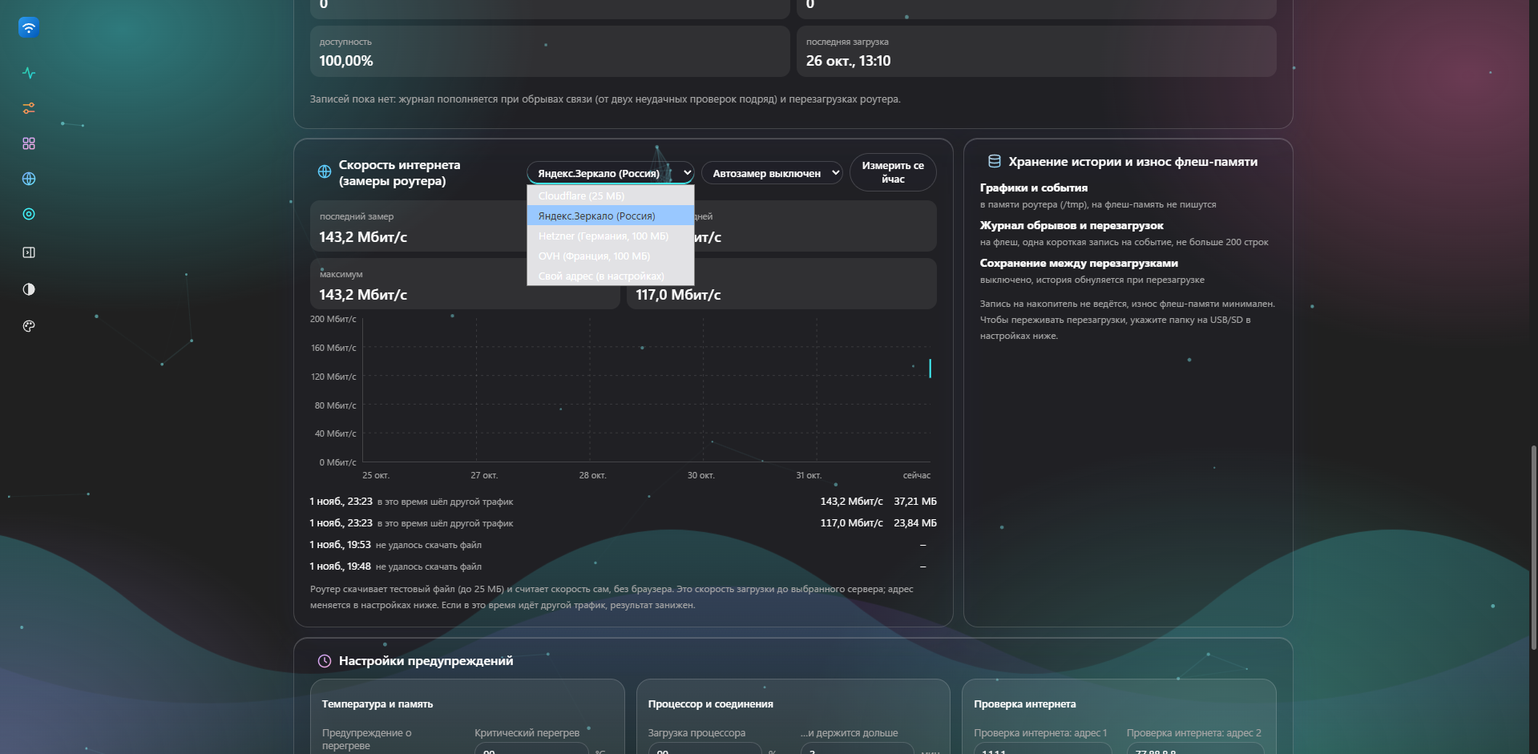
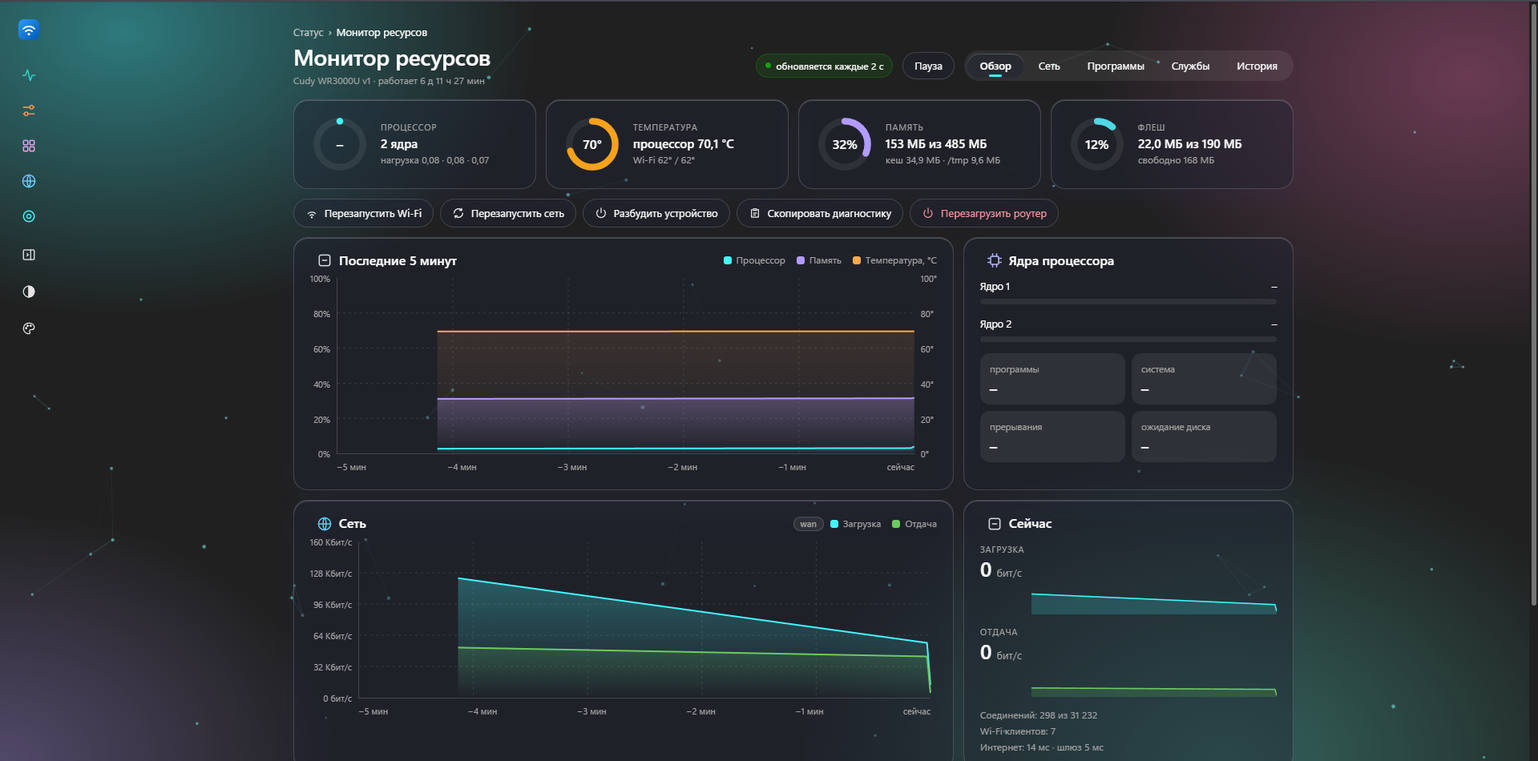
Новый README и скриншоты

diff --git a/README.md b/README.md
@@ -1,159 +1,99 @@
 # Nightfall для OpenWrt
 
-Тема в стиле Windows 11 / Liquid Glass и страница «Монитор ресурсов» для LuCI на **OpenWrt 25.12**.
+Тема для LuCI в стиле Windows 11 и Liquid Glass плюс страница **«Монитор ресурсов»** с историей, графиками и учётом трафика по устройствам. Для **OpenWrt 25.12**, без дополнительных пакетов.
 
-## Быстрая установка
-Обновление или установка одной командой на роутере (нужен доступ в интернет, SSH):
+<!--
+## Скриншоты
+Положите файлы в папку docs/ и уберите эти маркеры комментария.
+
+| Монитор ресурсов | Обзор | Телефон |
+|---|---|---|
+| <img src="docs/monitor.png" width="420"> | <img src="docs/overview.png" width="420"> | <img src="docs/mobile.png" width="200"> |
+-->
+
+## Возможности
+
+**Тема**
+- Два стиля: Windows 11 (Mica, карточки) и Liquid Glass (прозрачные карточки с размытием).
+- Светлая и тёмная темы, автопереключение по системе или по расписанию.
+- 12 акцентных цветов и свой цвет, фоны (Mica, точки, сетка, звёзды, аврора, волны), анимированные «созвездия».
+- Свёртываемое меню, поиск по страницам (`Ctrl+K` или `/`), быстрая кнопка смены темы.
+- Мобильный вид: нижняя панель разделов, настройки в виде карточек, панель «Сохранить и применить» внизу экрана.
+- Экран входа в стиле экрана блокировки со сводкой о роутере (только для клиентов из локальной сети).
+- Установка на домашний экран телефона как приложение. Настройки вида хранятся на роутере и переживают смену браузера.
+
+**Обзор**
+- Полоса «Сейчас»: интернет, трафик WAN, процессор, температура, память. Плитки раскрываются в графики за час, сутки, неделю.
+- Состояние роутера, Wi-Fi клиенты и уровень сигнала, лента событий, топ устройств по трафику, быстрые действия.
+- Карточки можно перетаскивать, закреплять и скрывать.
+
+**Монитор ресурсов** (Состояние → Монитор ресурсов)
+- Процессор, температура, память, флеш-память, ядра, память по программам.
+- Вкладка «Сеть»: скорость интерфейсов, соединения, трафик по устройствам за сегодня и вчера.
+- Вкладка «История»: графики за 1 час, 24 часа, 7 дней, качество связи, журнал обрывов и перезагрузок.
+- Замер скорости интернета самим роутером: Cloudflare, Яндекс.Зеркало, Hetzner, OVH или свой адрес, ручной и автоматический запуск.
+- Предупреждения даже при закрытой странице: перегрев, нехватка памяти, заполненная флеш-память, высокая нагрузка, пропажа интернета.
+
+История хранится в оперативной памяти (`/tmp`), на флеш-память ничего не пишется. Чтобы история переживала перезагрузку, укажите папку на USB или SD-карте.
+
+## Установка
+
+Нужен SSH-доступ к роутеру.
+
+**Одной командой** (роутеру нужен доступ в интернет):
 ```sh
 wget -qO- https://raw.githubusercontent.com/Nikolai752/nightfall-openwrt/main/install-update.sh | sh
 ```
-Первая установка с включением темы: скачайте `nightfall-root.tar.gz` из [Releases](https://github.com/Nikolai752/nightfall-openwrt/releases/latest) и `install.sh`, затем:
+
+**Вручную:** скачайте `nightfall-root.tar.gz` из [Releases](https://github.com/Nikolai752/nightfall-openwrt/releases/latest) и `install.sh`, положите рядом и выполните:
 ```sh
 scp -O nightfall-root.tar.gz install.sh root@192.168.1.1:/tmp/
 ssh root@192.168.1.1 "cd /tmp && sh install.sh --activate"
 ```
+`--activate` сразу включает тему. Без него выберите её в System → System → Language and Style.
 
-## Структура репозитория
-- `luci-theme-nightfall/` — тема (CSS, JS, шаблоны ucode).
-- `luci-app-nightfall-monitor/` — монитор, сборщик истории, меню и права rpcd.
-- `install.sh`, `install-update.sh`, `uninstall.sh` — установка, обновление, откат.
-- `build-release.sh` — собирает `dist/nightfall-root.tar.gz` для релиза.
+После установки выйдите из LuCI и войдите снова, затем нажмите `Ctrl+F5`. На iPhone закройте приложение с экрана «Домой» и откройте заново.
 
-## Выпуск новой версии
+## Обновление
+
+Та же команда, что и для установки одной командой, либо `install-update.sh` вручную. Настройки сохраняются.
+
+## Удаление
+
 ```sh
-git tag v1.0.0 && git push origin v1.0.0
-```
-GitHub Actions соберёт архив и приложит его к релизу. Вручную: `sh build-release.sh`, затем загрузить `dist/nightfall-root.tar.gz` в новый релиз.
-
-## Что внутри
-- **Тема**: боковая панель как в «Параметрах» Windows 11, Mica, карточки, переключатели, плавающая панель сохранения, плитки на «Обзоре»,
-  полосы прогресса и графики в одной палитре, светлая/тёмная по системе (варианты Nightfall Dark / Light).
-- **Персонализация** (кнопка слева внизу): режим Авто/Светлая/Тёмная, 12 акцентных цветов и свой цвет, фон (Mica, плоский, точки, сетка, звёзды) с масштабом, анимации вкл/выкл.
-  Хранится в браузере (localStorage), не на роутере.
-- **Быстрая кнопка темы** (Авто → Светлая → Тёмная) в шапке, **поиск по меню** (Ctrl+K или `/`), **экран входа** в стиле экрана блокировки: часы, дата и окно входа по центру (см. ниже).
-- **Status → Монитор ресурсов**: процессор, температура, память, флеш, график за 5 минут, ядра, память по программам;
-  вкладка «Сеть» (скорость по интерфейсам, соединения, кто держит соединения, Wi-Fi клиенты), вкладка «Программы».
-  Быстрые действия (перезапуск Wi-Fi/сети, Wake-on-LAN, перезагрузка) и предупреждение о перегреве (≥80 °C дольше минуты, ≥90 °C — красное).
-- **Фоновый сборщик истории** (`nightfall-collector`, запускается как служба): процессор, память, температура, скорость WAN, задержка и потери ping.
-  Час — с шагом 15 с, неделя — по 5 минут. Данные лежат в `/tmp/nightfall` (в памяти), на флеш ничего не пишется.
-- **Монитор → вкладка «История»**: графики за 1 час / 24 часа / 7 дней, качество связи (средняя и максимальная задержка, потери, обрывы), журнал событий.
-- **Монитор → «Сеть» → «Трафик по устройствам»**: кто сколько качает сейчас и за день (сегодня / вчера), с именами из DHCP.
-  Считается из conntrack accounting (`nf_conntrack_acct=1`), без дополнительных правил nftables.
-- **Предупреждения** (даже если страница закрыта): перегрев, нехватка памяти, заполненная флеш-память и таблица соединений, длительная нагрузка CPU,
-  пропал интернет / шлюз. Видны на «Обзоре», пишутся в журнал (`logread | grep nightfall`).
-
-## Экран входа
-- Сводка о роутере над полями: интернет (задержка по данным сборщика), время работы, версия прошивки. Показывается **только клиентам из локальной сети** (10.x, 172.16–31.x, 192.168.x, fc/fd/fe80, localhost); при заходе из интернета видны только имя и модель, как раньше.
-- «Запомнить имя» (в браузере, пароль не сохраняется), подсказки про Caps Lock и русскую раскладку, понятная ошибка при неверном пароле, «Забыли пароль?» с короткой памяткой по сбросу.
-- Нужен запущенный сборщик (`nightfall-collector`), иначе плитка «Интернет» покажет «нет данных».
-- Свой набор цветных значков (порты, мосты, VLAN, VPN, Wi-Fi; уровень сигнала от красного до зелёного) вместо стандартных LuCI: только внутри темы, системные файлы `/www/luci-static/resources/icons/` не меняются. Лежат в `/www/luci-static/nightfall/icons/`.
-- Значки и бейджи на страницах «Интерфейсы» и «Беспроводная сеть» приведены к общему стилю (карточки-интерфейсы, бейджи сигнала).
-- Проверено в Chromium на макете с имитацией LuCI; на настоящем LuCI/роутере не запускалось.
-
-## Персонализация: дополнительные настройки
-Кнопка «Персонализация» слева внизу (панель прокручивается): плотность (обычная/компактная), размер текста (мельче/обычный/крупнее), скругление углов (острые/средние/круглые), стекло и размытие (можно выключить для слабых устройств), экран входа (часы и дата, сводка о роутере, фон как у темы или однотонный), «Обзор» (полоса «Сейчас», цветные метки). Хранится в браузере.
-
-### Стили, расписание, меню, полоса интернета
-- **Стиль** (первая строка панели): Windows 11 (по умолчанию) и Liquid Glass (стекло в духе iOS: прозрачные карточки с размытием, круглые углы, яркий фон).
-- **Созвездия**: анимированный фон из точек и линий, которые тянутся к курсору. По умолчанию включён на экране входа, на страницах включается отдельно («Созвездия на фоне страниц»). Отключается вместе с анимациями.
-- **Тёмная по расписанию**: по умолчанию тёмная с 20:00, светлая с 07:00 (время можно поменять). Пока включено, кнопки режима неактивны.
-- **Свёрнутое меню**: кнопка «Свернуть меню» слева внизу или переключатель в панели. В свёрнутом виде видны значки разделов, подменю открывается при наведении.
-- **Полоса состояния интернета**: тонкая линия по верхнему краю, зелёная при нормальном пинге, красная при потере связи (данные берутся из сборщика; если он не запущен, полосы нет). Отключается в панели.
-
-## Установка (SSH на роутер)
-Файлы: `nightfall-root.tar.gz`, `install.sh` (положить в одну папку).
-```sh
-scp nightfall-root.tar.gz install.sh root@192.168.1.1:/tmp/
-ssh root@192.168.1.1 "cd /tmp && sh install.sh --activate"
-```
-`--activate` сразу включает тему; без него выбрать вручную: System → System → Language and Style → Nightfall.
-После установки выйти из LuCI и войти снова (нужно для нового пункта меню и прав доступа), обновить страницу через Ctrl+F5.
-
-## Сборщик истории и предупреждения
-Настройки удобнее менять на странице: Монитор → История → «Настройки предупреждений» (кнопка «Сохранить и применить» сама перезапускает сборщик).
-То же самое лежит в файле `/etc/nightfall-monitor.conf` (создаётся при установке из `/usr/share/nightfall/nightfall-monitor.conf.default`); после ручных правок: `/etc/init.d/nightfall-collector restart`.
-Кнопка «Скопировать диагностику» (на «Обзоре» и в настройках) копирует в буфер сводку о роутере для отправки в поддержку. IP и MAC устройств в неё не входят.
-- Пороги: `TEMP_WARN`, `TEMP_CRIT`, `MEM_MIN_PCT`, `FLASH_MAX_PCT`, `CT_MAX_PCT`, `CPU_MAX_PCT`, `CPU_MINUTES`.
-- Проверка интернета: `PING_TARGET`, `PING_TARGET2` (достаточно ответа от одного). Шлюз определяется автоматически.
-- Сохранение истории после перезагрузки: `PERSIST_DIR=/mnt/sda1/nightfall` (папка на USB/SD, раз в час). Не указывайте внутреннюю флеш-память роутера.
-- Служба: `/etc/init.d/nightfall-collector start|stop|restart|enable|disable`. Без неё монитор работает, но вкладка «История» и учёт по устройствам пустые.
-- Учёт трафика по устройствам требует `sysctl net.netfilter.nf_conntrack_acct` = 1. Если 0:
-  `echo "net.netfilter.nf_conntrack_acct=1" >> /etc/sysctl.conf && sysctl -p`.
-- При включённом flow offloading ускоренные соединения не попадают в conntrack-учёт, и цифры по устройствам могут быть занижены; монитор покажет об этом подсказку. Настройки файрвола (в том числе `zapret`, `steer`) монитор не меняет и менять не требует.
-- Учёт — по инициатору соединения из локальной сети: «↓» то, что устройство скачало, «↑» то, что отправило. IPv6-адреса объединяются с устройством по MAC (через DHCP/NDP).
-- Не учитывается трафик внутри локальной сети и до самого роутера.
-- Трафик, который создаёт сам роутер (VPN-туннели, DNS, обновления), показывается отдельной строкой «Сам роутер», а не как устройство.
-
-## Дополнительно
-- Тему можно добавить на домашний экран телефона (есть манифест приложения).
-- «Разбудить устройство» требует пакет: `apk add etherwake`.
-- Если температура не показывается, пришлите вывод: `ls /sys/class/thermal/*/type /sys/class/hwmon/*/name`.
-- Не проверялись: Software, Backup и страницы доп. пакетов (adblock, sqm и т.п.).
-
-## Откат на стандартную тему
-```sh
-scp uninstall.sh root@192.168.1.1:/tmp/
-ssh root@192.168.1.1 "sh /tmp/uninstall.sh"          # только вернуть Bootstrap
+scp -O uninstall.sh root@192.168.1.1:/tmp/
+ssh root@192.168.1.1 "sh /tmp/uninstall.sh"          # вернуть стандартную тему
 ssh root@192.168.1.1 "sh /tmp/uninstall.sh --purge"  # и удалить все файлы Nightfall
 ```
-Если LuCI не открывается совсем, по SSH: `uci set luci.main.mediaurlbase=/luci-static/bootstrap; uci commit luci`.
+Если LuCI не открывается совсем: `uci set luci.main.mediaurlbase=/luci-static/bootstrap; uci commit luci`.
 
-## Полное удаление
+## Настройка
+
+- Вид темы: кнопка «Персонализация» слева внизу. Цвета и размеры в начале `cascade.css` (`--nf-accent`, `--nf-bg`, `--nf-radius`).
+- Предупреждения, адреса проверки интернета, папка истории: Монитор → История → «Настройки предупреждений» или файл `/etc/nightfall-monitor.conf`.
+- Служба сборщика: `/etc/init.d/nightfall-collector start|stop|restart|enable|disable`. Без неё история и учёт по устройствам пустые.
+- Учёт трафика по устройствам требует `net.netfilter.nf_conntrack_acct=1`:
+  `echo "net.netfilter.nf_conntrack_acct=1" >> /etc/sysctl.conf && sysctl -p`.
+  При включённом flow offloading часть трафика не видна, цифры могут быть занижены.
+- «Разбудить устройство» требует пакет `etherwake`. Если температура не показывается, пришлите вывод `ls /sys/class/thermal/*/type /sys/class/hwmon/*/name`.
+
+## Статус
+
+Разрабатывалось под Cudy WR3000U с OpenWrt 25.12. Не проверялись страницы Software, Backup и дополнительных пакетов (adblock, sqm и т. п.). Нашли ошибку или хотите улучшение, откройте [Issue](https://github.com/Nikolai752/nightfall-openwrt/issues).
+
+## Структура репозитория
+
+- `luci-theme-nightfall/` — тема: CSS, JS, шаблоны.
+- `luci-app-nightfall-monitor/` — монитор, сборщик истории, меню, права доступа.
+- `install.sh`, `install-update.sh`, `uninstall.sh` — установка, обновление, откат.
+- `build-release.sh` — собирает `dist/nightfall-root.tar.gz`.
+
+## Выпуск версии
+
 ```sh
-/etc/init.d/nightfall-collector stop; /etc/init.d/nightfall-collector disable
-rm -rf /www/luci-static/nightfall* /www/luci-static/resources/menu-nightfall.js /www/luci-static/resources/view/nightfall \
-  /usr/share/ucode/luci/template/themes/nightfall* /usr/libexec/nightfall-* /etc/init.d/nightfall-collector /usr/share/nightfall /tmp/nightfall \
-  /usr/share/luci/menu.d/luci-app-nightfall-monitor.json /usr/share/rpcd/acl.d/luci-app-nightfall-monitor.json
-uci delete luci.themes.Nightfall; uci delete luci.themes.NightfallDark; uci delete luci.themes.NightfallLight
-uci set luci.main.mediaurlbase=/luci-static/bootstrap; uci commit luci; /etc/init.d/rpcd reload
+git tag v1.0.1
+git push origin v1.0.1
 ```
+GitHub Actions соберёт `nightfall-root.tar.gz` и приложит к релизу.
 
-## «Обзор» (Состояние → Обзор)
-- Вверху полоса «Сейчас»: интернет (пинг + метка «Онлайн/Нет связи»), трафик WAN ↓/↑, процессор, температура, память — с мини-графиками за последние 10 минут, обновление каждые 3 с. Нужен запущенный сборщик (`nightfall-collector`), иначе пинг покажет «нет данных».
-- Карточки идут по приоритету (интернет, сеть, порты, Wi-Fi, система, температура, память…). Порядок можно менять: потянуть за значок ⋮⋮ слева от заголовка или поставить на него фокус и нажать ↑ / ↓. Порядок хранится в браузере; «Сбросить порядок карточек» возвращает по умолчанию. Сворачивание («Скрыть/Показать») запоминает сам LuCI.
-- Цветные метки: уровень сигнала Wi-Fi клиентов (Отличный / Хороший / Слабый / Плохой), состояние порта (есть связь / нет).
-- Подсказки при наведении есть на всех графиках монитора.
-- После обновления нажмите Ctrl+Shift+R (LuCI кэширует JS).
-
-## Сборка .apk (необязательно)
-Папки `luci-theme-nightfall` и `luci-app-nightfall-monitor` из репозитория положить в `package/` SDK 25.12:
-`make package/luci-theme-nightfall/compile package/luci-app-nightfall-monitor/compile V=s`.
-
-В репозитории нет символических ссылок (`nightfall-light`, `nightfall-dark`, `prefs.json`) — они создаются в `build-release.sh`. Для сборки .apk создайте их вручную или пользуйтесь установкой через `install.sh`.
-
-## Настройка вида
-Цвета и размеры — переменные `--nf-*` в начале `cascade.css` (`--nf-accent`, `--nf-bg`, `--nf-radius`).
-
-## Новое: топ клиентов, переходы, мобильный вид, фоны
-- **Топ клиентов** на «Статус → Обзор»: пять самых активных устройств, скорость вниз/вверх и трафик за день (данные коллектора).
-- **Плавные переходы** между страницами (View Transitions, Chrome/Edge); отключаются переключателем «Анимации».
-- **Пустые состояния**: аккуратная заглушка с иконкой вместо пустых таблиц и блоков.
-- **Мобильный вид** (экран уже 900 px): нижняя панель разделов и выезжающая шторка с пунктами раздела.
-- **Фоны «Аврора» и «Волны»**: Персонализация → Фон.
-
-## Новое: виджеты Обзора, перетаскивание, стекло, подсказки
-- **Состояние роутера** (кольцо 0–100 с причинами), **Wi‑Fi сейчас** (клиенты и уровень сигнала), **Лента событий**, **Быстрые действия** (перезапуск Wi‑Fi и перезагрузка роутера, оба действия с подтверждением вторым нажатием). Каждый блок включается в Персонализации → Обзор.
-- **Перетаскивание карточек**: потяните за значок ⋮⋮ — карточка следует за курсором, на её месте пунктирный слот, остальные плавно расходятся; порядок запоминается. Работает и пальцем.
-- **Размер карточек** Обзора: компактные, обычные, крупные.
-- **Стекло**: тон (авто, светлое, тёмное), размытие и прозрачность.
-- **Фон входа**: добавлены «Аврора» и «Волны».
-- **Подсказки «?»** рядом с терминами (MTU, DHCP, DNS, NAT, SSID и др.); отключаются в Персонализации.
-- **Установка как приложение**: на телефоне «Добавить на главный экран» (iOS, Android). Кнопка «Установить» в Персонализации появляется, только если браузер разрешает установку (по HTTP на локальной сети Chrome обычно не разрешает).
-
-## Новое: иконки, меню, закрепление, детали, монитор
-- **Иконки карточек** на Обзоре и в Мониторе: в стиле Windows 11 — однотонные, в «Стекле» — цветные градиентные, отдельные для светлой и тёмной темы. Иконки меню в «Стекле» тоже цветные.
-- **Меню**: активный пункт подсвечивает плавная пилюля, которая следует за курсором.
-- **Закрепление карточек** (значок-кнопка рядом с названием) и «Скрыть» в виде иконки-глаза.
-- **Плитки сверху** открываются: нажмите, чтобы увидеть график за час, сутки или неделю с подсказкой по наведению.
-- **Топ клиентов**: карандаш рядом с именем даёт своё имя устройства (хранится в браузере). **Wi‑Fi сейчас**: нажмите на клиента, чтобы увидеть подробности.
-- **Монитор ресурсов**: тот же вид карточек, что у Обзора; на вкладке «История» — «Сводка за день» (трафик сегодня и вчера, обрывы интернета, пики, топ устройств).
-- **Диалоги и уведомления** LuCI в стеклянном стиле.
-- **Анимированные фоны**: Персонализация → «Вид анимации»: созвездия, светлячки, пузыри, снег, звёзды.
-
-## Исправления: замер скорости, телефон, настройки темы на роутере
-- **Замер скорости зависал.** После первого замера история отдавала некорректный JSON, и страница бесконечно показывала «Идёт замер…». Исправлено; ожидание в интерфейсе ограничено 60 секундами, источник теста выбирается в карточке (Cloudflare, Яндекс.Зеркало, Hetzner, OVH или свой адрес в настройках).
-- **Яндекс.Интернетометр** считает скорость скриптом прямо в браузере и не даёт файла для скачивания, поэтому роутер не может его использовать. Ближайшая замена — Яндекс.Зеркало (российский сервер).
-- **Телефон:** кнопки в таблицах по центру, вкладки монитора помещаются в строку, внизу страницы одна кнопка «Сохранить и применить» (без «Применить без проверки»).
-- **Окна поверх затемнения** (клиент Wi‑Fi, диагностика) в теме «Стекло» читаются в светлой и тёмной теме.
-- **Монитор:** строки таблиц больше не подсвечиваются полоской при наведении; «Настройки предупреждений» разбиты на отдельные блоки.
-- **Настройки темы хранятся на роутере** (`/etc/nightfall-prefs.json`, один маленький файл, запись не чаще раза в 15 секунд и при закрытии страницы). После входа в LuCI копия отправляется на роутер; при открытии страницы (в том числе экрана входа) подтягивается более новая версия. Так настройки переживают смену браузера, очистку данных и ярлык на экране «Домой». После обновления выйдите из LuCI и войдите снова: права доступа обновляются при входе.
+В репозитории нет символических ссылок (`nightfall-light`, `nightfall-dark`, `prefs.json`): их создаёт `build-release.sh`. Для сборки `.apk` через SDK создайте их вручную.
